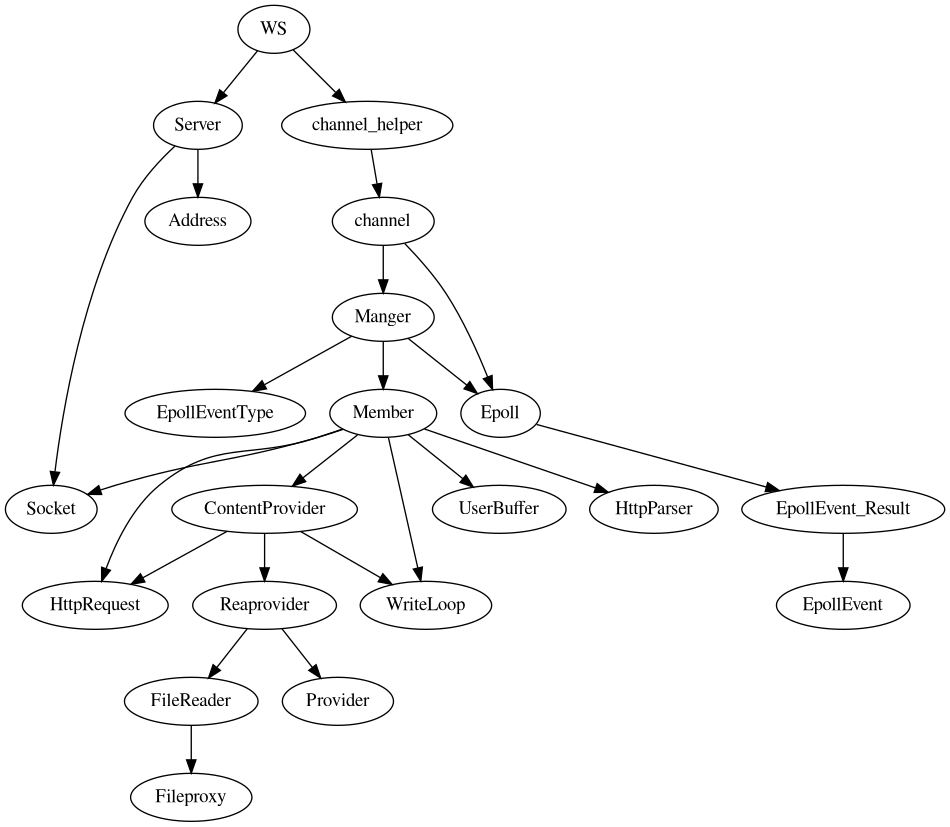
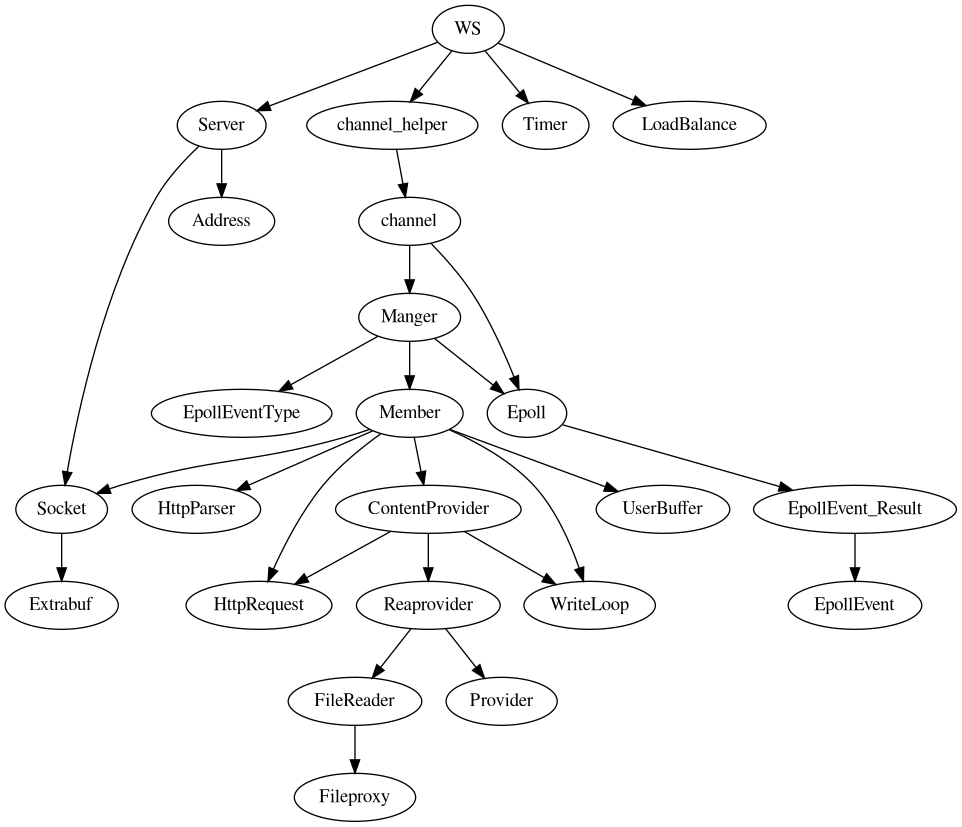
加入定时器；加入负载均衡设计框架；

diff --git a/src/server/ws.cc b/src/server/ws.cc
@@ -14,6 +14,7 @@
 */
 
 #include "../base/config.h"
+#include "../tool/ThreadSafeQueue/lockfreequeue.h"
 #include "ws.h"
 
 #include <signal.h>
@@ -48,24 +49,36 @@ namespace ws{
             _Server_.Set_AddrRUseA();
             _Server_.Base_Setting();
             _Server_.Server_BindAndListen();
-            _Epoll_.Add(_Server_, EpollCanRead());
+            _Epoll_.Add(_Server_, EpollOnlyRead());
+            _Epoll_.Add(_Timer_, EpollOnlyRead());  // 处理连接，又是单线程，只注册一个可读事件即可
+            _Timer_.SetTimer();
+
             EpollEvent_Result Event_Reault(Y_Dragon::EventResult_Number());
             channel_helper Channel_;
             Channel_.loop();
+
+            //ws::LockFreeQueue<Node> que;
 
             while(true){
                 //constexpr int Second = 20;
                 _Epoll_.Epoll_Wait(Event_Reault);
                 // https://man7.org/linux/man-pages/man2/epoll_wait.2.html
-                // FIX：初始没有考虑epoll_wait返回-1，但是很隐晦，在性能分析的时候需要用到信号，而在接收到信号的时候epoll_wait会被中断返回-1，errno==EINTR；
+                // FIX：初始没有考虑epoll_wait返回-1，但是很隐晦，在性能分析的时候需要用到信号，而在接收到信号的时候epoll_wait会被中断返回-1，即errno==EINTR
                 if(Event_Reault.size() == -1) continue; // 把这句话删掉跑性能分析就会出现段错误；
 
                 for(int i = 0; i < Event_Reault.size(); ++i){
-                    auto & item = Event_Reault[i];
+                    auto& item = Event_Reault[i];
                     int id = item.Return_fd();
                     if(id == _Server_.fd()){ //这里放入事件循环
                         _Server_.Server_Accept([&](int fd){Channel_.Distribution(fd);});
-                        _Epoll_.Modify(_Server_, EpollCanRead());
+                    } else if(id == _Timer_.fd()) { // 从全局无锁队列中取值进行负载均衡
+                        // 每次唤醒后必须阅读timerfd, 如果不这样做，那么将立即再次被唤醒，直到超时为止；被这个点浪费了四十分钟
+                        // 事实上不管是默认的间隔超时还是重新使用timerfd_settime都会至少执行一次系统调用。后者还可以使得每次超时时间可变
+                        uint64_t exp;
+                        ssize_t size = read(id, &exp, sizeof(uint64_t));
+                        if(size != sizeof(uint64_t)) {
+                            std::cerr << "ERROR : read error. (ws.cc)\n";
+                        }
                     }
                 }
             }

diff --git a/src/tool/timer.h b/src/tool/timer.h
@@ -1,0 +1,56 @@
+/**
+ * Copyright lizhaolong(https://github.com/Super-long)
+ * Licensed under the Apache License, Version 2.0 (the "License");
+ * you may not use this file except in compliance with the License.
+ * You may obtain a copy of the License at
+ * 
+ *  http://www.apache.org/licenses/LICENSE-2.0
+ * 
+ * Unless required by applicable law or agreed to in writing, software
+ * distributed under the License is distributed on an "AS IS" BASIS,
+ * WITHOUT WARRANTIES OR CONDITIONS OF ANY KIND, either express or implied.
+ * See the License for the specific language governing permissions and
+ * limitations under the License.
+*/
+
+#ifndef TIMER_H_
+#define TIMER_H_
+
+#include "../base/havefd.h"
+#include "../base/nocopy.h"
+#include <sys/timerfd.h>
+#include <unistd.h>
+
+namespace ws{
+    class Timer : public Havefd, public Nocopy{
+        public:
+            Timer() : timeFd(::timerfd_create(CLOCK_MONOTONIC, TFD_CLOEXEC | TFD_NONBLOCK)){}
+            int fd() const & noexcept override {return timeFd;}
+
+            // 间隔时间与首次超时时间，单位为纳秒; 默认为200ms以后启动，100ms间隔触发一次；
+            int SetTimer(long intervalNanoseconds = 100000000l, long firstNanoseconds = 200000000l){
+                struct itimerspec its;
+
+                constexpr long base = 1000000000;
+
+                its.it_interval.tv_sec = intervalNanoseconds / base;     // 后面触发的间隔时间
+                its.it_interval.tv_nsec = intervalNanoseconds % base;
+
+                its.it_value.tv_sec = firstNanoseconds / base;// 首次超时时间
+                its.it_value.tv_nsec = firstNanoseconds % base;
+                // https://linux.die.net/man/2/timerfd_settime
+                if (::timerfd_settime(timeFd, 0, &its, nullptr) < 0)
+                    return -1;
+                return 0;   // timerfd_settime成功时返回0，等于-1的时候失败；
+            }
+
+            ~Timer(){
+                ::close(timeFd);
+            }
+        private:
+            int timeFd;
+
+    };
+}
+
+#endif

diff --git a/src/tool/loadbalance.h b/src/tool/loadbalance.h
@@ -1,0 +1,46 @@
+/**
+ * Copyright lizhaolong(https://github.com/Super-long)
+ * Licensed under the Apache License, Version 2.0 (the "License");
+ * you may not use this file except in compliance with the License.
+ * You may obtain a copy of the License at
+ * 
+ *  http://www.apache.org/licenses/LICENSE-2.0
+ * 
+ * Unless required by applicable law or agreed to in writing, software
+ * distributed under the License is distributed on an "AS IS" BASIS,
+ * WITHOUT WARRANTIES OR CONDITIONS OF ANY KIND, either express or implied.
+ * See the License for the specific language governing permissions and
+ * limitations under the License.
+*/
+
+#ifndef LOADBALANCE_H_
+#define LOADBALANCE_H_
+
+#include "../base/nocopy.h"
+#include "ThreadSafeQueue/lockfreequeue.h"
+#include <thread>
+
+namespace ws {
+
+    struct ThreadLoadData{
+        uint32_t Throughput;    // 千兆网卡每秒最大吞吐量也就是125MB左右，况且accept线程每0.1秒更新一次负载状况，uint完全够存；
+        short ThreadId;         // 所属线程下标，accept线程分配；
+        short ConnectionNumber; // 该线程目前存在的长连接数（长连接很难做负载均衡），个人认为涉及到epoll间转移fd；
+    };
+
+    class LoadBalance : public Nocopy {
+        public:
+            explicit LoadBalance(ws::LockFreeQueue<ThreadLoadData>& que)
+             : LoadBalance(que) {
+                auto ThreadSum = std::max<int>(1, std::thread::hardware_concurrency() - 1); 
+                PerThreadThroughput.resize(ThreadSum);
+                PerThreadConnectNumber.resize(ThreadSum);
+            }
+        private:
+            ws::LockFreeQueue<ThreadLoadData>& LoadBalanceQue;
+            std::vector<uint32_t> PerThreadThroughput;
+            std::vector<uint32_t> PerThreadConnectNumber;
+    };
+}
+
+#endif

diff --git a/src/net/epoll_event.h b/src/net/epoll_event.h
@@ -50,6 +50,7 @@ namespace ws{
     constexpr EpollEventType EpollCanRead() {return static_cast<EpollEventType>(EpollTypeBase() | EETCOULDREAD); }
     constexpr EpollEventType EpollCanWite() {return static_cast<EpollEventType>(EpollTypeBase() | EETCOULDWRITE); }
     constexpr EpollEventType EpollRW() {return static_cast<EpollEventType>(EpollTypeBase() | EETCOULDWRITE | EETCOULDREAD); }
+    constexpr EpollEventType EpollOnlyRead(){return static_cast<EpollEventType>(EETCOULDREAD);}
     
     class EpollEvent final : public Copyable{
         public:

diff --git a/src/net/socket.h b/src/net/socket.h
@@ -105,7 +105,7 @@ namespace ws{
             int BufferSize = 4048;                                  // 额外buffer大小
     };
 
-    class Socket : public Havefd,Copyable{
+    class Socket : public Havefd, public Copyable{
         public:
             Socket() : Socket_fd_(socket(AF_INET, SOCK_STREAM | SOCK_NONBLOCK | SOCK_CLOEXEC, 0)){
                 //SetNoblockingCLOEXEC();

diff --git a/src/server/ws.h b/src/server/ws.h
@@ -20,6 +20,7 @@
 #include "../net/epoll.h"
 #include "manger.h"
 #include "channel.h"
+#include "../tool/timer.h"
 
 namespace ws{
     class Web_Server{ 
@@ -29,7 +30,8 @@ namespace ws{
         private: 
             Manger _Manger_;
             Epoll _Epoll_; 
-            Server _Server_; 
+            Server _Server_;
+            Timer _Timer_;
     };
 }
 

diff --git a/src/tool/ThreadSafeQueue/lockfreequeue.h b/src/tool/ThreadSafeQueue/lockfreequeue.h
@@ -8,6 +8,7 @@
 #define LOCKFREEQUEUE_H_
 
 // https://github.com/RickyZhaoRuiQi/lock_free_que
+// 有一说一，不是的自己代码跑起来都不放心；
 
 namespace ws{
 
